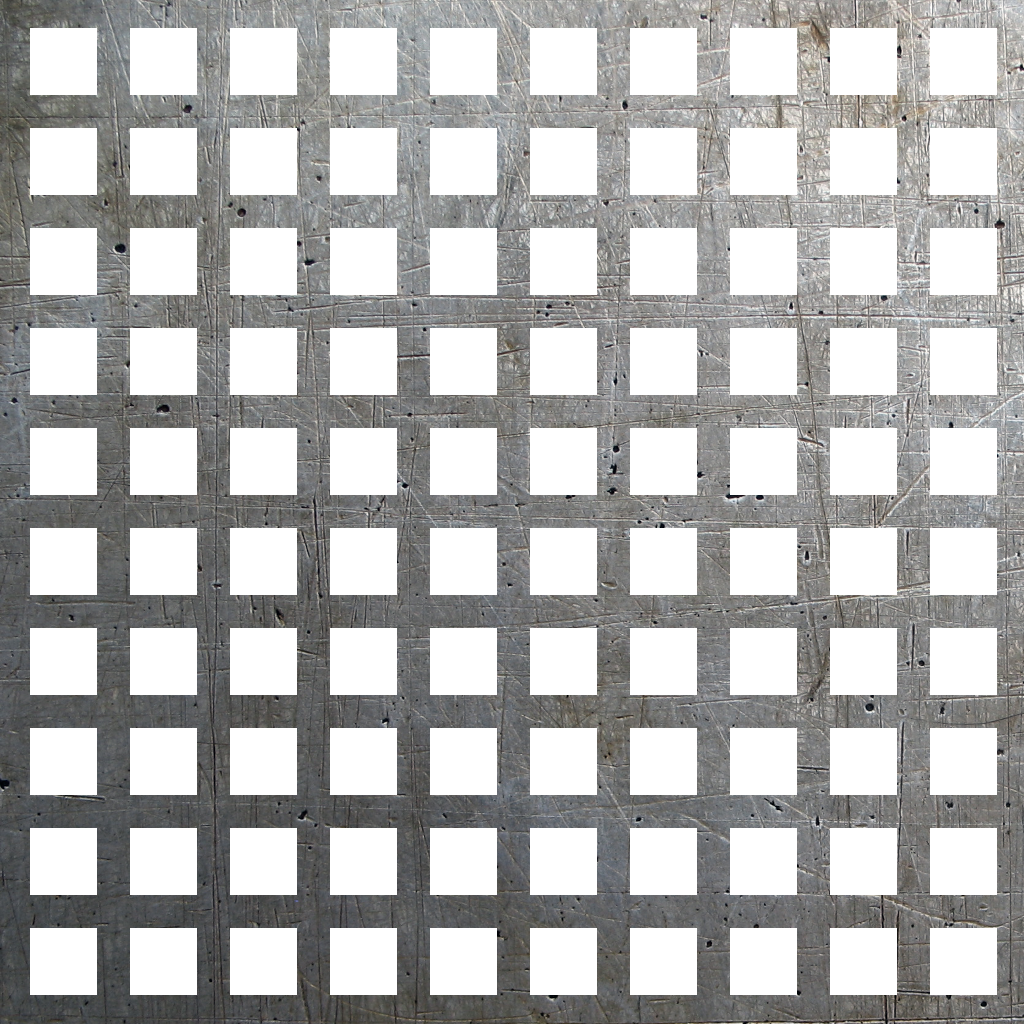
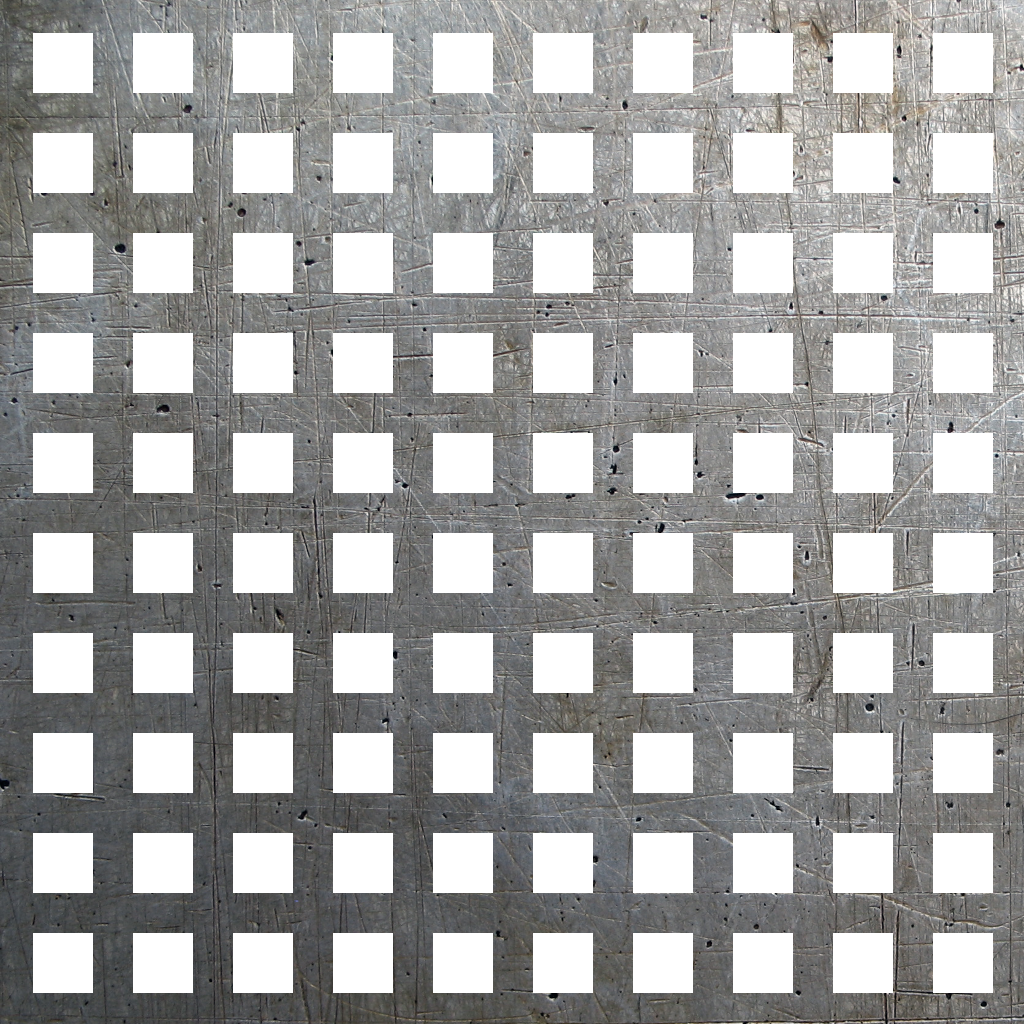
world updates

diff --git a/game/movement_system.cpp b/game/movement_system.cpp
@@ -10,8 +10,8 @@ using namespace Gamma;
 internal void resolveNewPositionFromCollision(const Collision& collision, Object& player, float dt) {
   auto resetPosition = collision.point + collision.plane.normal * player.scale.x;
 
-  if (collision.plane.nDotU > 0.985f) {
-    float alpha = 30.f * dt;
+  if (collision.plane.nDotU > 0.99f) {
+    float alpha = 50.f * dt;
     alpha = alpha > 1.f ? 1.f : alpha;
 
     player.position = Vec3f::lerp(player.position, resetPosition, alpha);    
@@ -90,7 +90,7 @@ internal void resolveAllPlaneCollisions(GmContext* context, GameState& state, fl
       }
     } else if (isFalling && plane.nDotU > 0.6f) {
       // @todo description
-      Vec3f fallCollisionLineEnd = player.position - plane.normal * (playerRadius + 5.f);
+      Vec3f fallCollisionLineEnd = player.position - plane.normal * (playerRadius + 10.f);
       auto fallCollision = Collisions::getLinePlaneCollision(player.position, fallCollisionLineEnd, plane);
 
       if (fallCollision.hit) {

diff --git a/game/world.cpp b/game/world.cpp
@@ -183,6 +183,19 @@ std::vector<MeshAsset> World::meshAssets = {
     }
   },
   {
+    .name = "metal-grate",
+    .defaultScale = Vec3f(100.f),
+    .hitboxScale = Vec3f(1.f, 0.0f, 1.f),
+    .create = []() {
+      return Mesh::Plane(2);
+    },
+    .attributes = {
+      .texture = "./game/assets/metal-grate.png",
+      .normals = "./game/assets/metal-grate-normals.png",
+      .roughness = 0.1f
+    }
+  },
+  {
     .name = "metal-guard",
     .hitboxScale = Vec3f(1.f, 0.2f, 0.05f),
     .create = []() {
